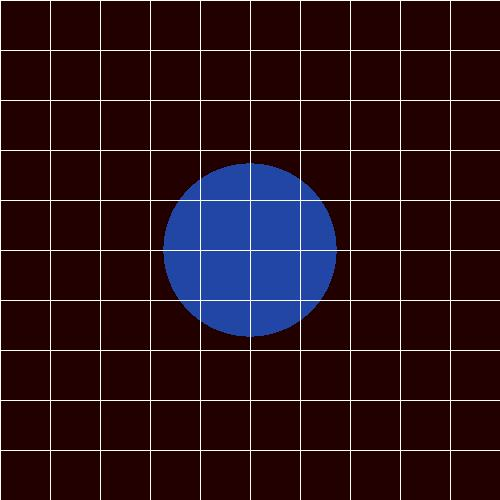
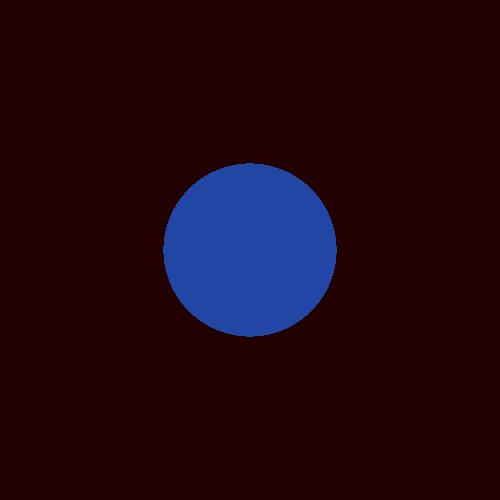
try new lights

diff --git a/src/unittests/RenderTest.java b/src/unittests/RenderTest.java
@@ -25,7 +25,7 @@ public class RenderTest {
 		scene.setLights(lights);
 		lights.add(new SpotLight(new Color(255, 255, 255), 1.0, 1.0, 1.0, new Point3D(0, 0, 2), new Vector(0, 0, -1)));
 
-		geometries.add(new Sphere(new Point3D(0, 0, 150), 75.0, new Color(34, 70, 166), new Material(1, 1, 1)));
+		geometries.add(new Sphere(new Point3D(0, 0, 150), 50.0, new Color(34, 70, 166), new Material(1, 1, 1)));
 
 		geometries.add(new Triangle(new Point3D(100, 0, 149), new Point3D(0, 100, 149), new Point3D(100, 100, 149),
 				new Color(0, 255, 0), new Material(1, 1, 1)));

diff --git a/src/unittests/RenderTest2.java b/src/unittests/RenderTest2.java
@@ -24,7 +24,7 @@ public class RenderTest2 {
 		ArrayList<Light> lights = new ArrayList<>();
 		scene.setLights(lights);
 		lights.add(new SpotLight(new Color(255, 255, 255), 1.0, 0.22, 0.5, new Point3D(0, 0, 2), new Vector(0, 0, -1)));
-
+		lights.add(new PointLight(new Color (255,255,204), 1.0, 0.22, 0.5, new Point3D (0,0,0)));
 		geometries.add(new Sphere(new Point3D(0, 0, 150), 75.0, new Color(34, 70, 166), new Material(1, 1, 1)));
 
 		ImageWriter imageWriter = new ImageWriter("test2", 500, 500, 500, 500);
